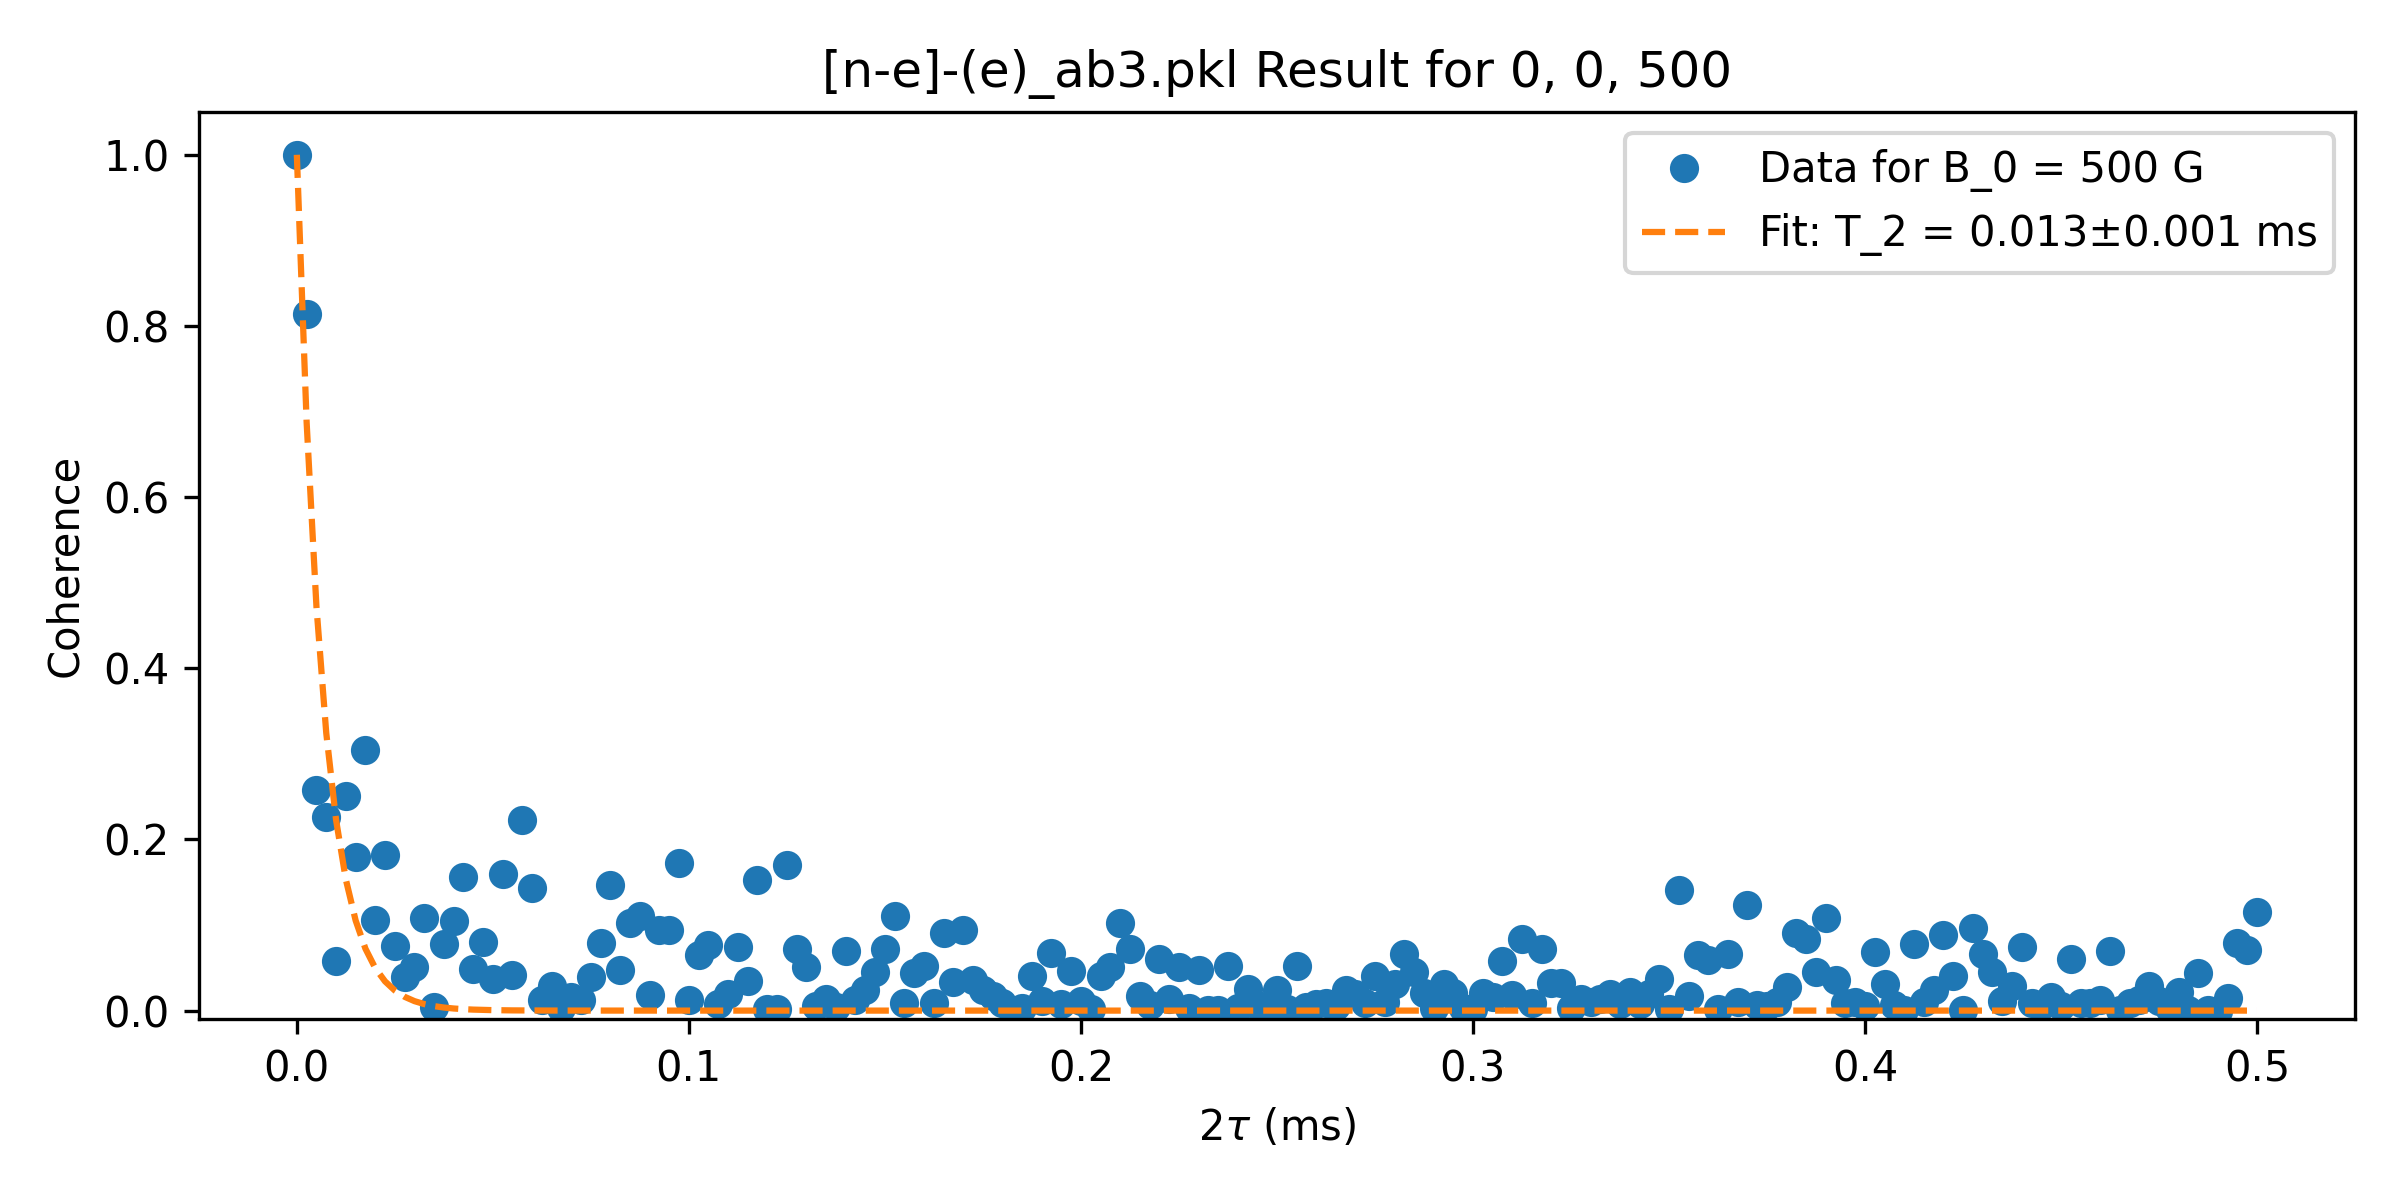
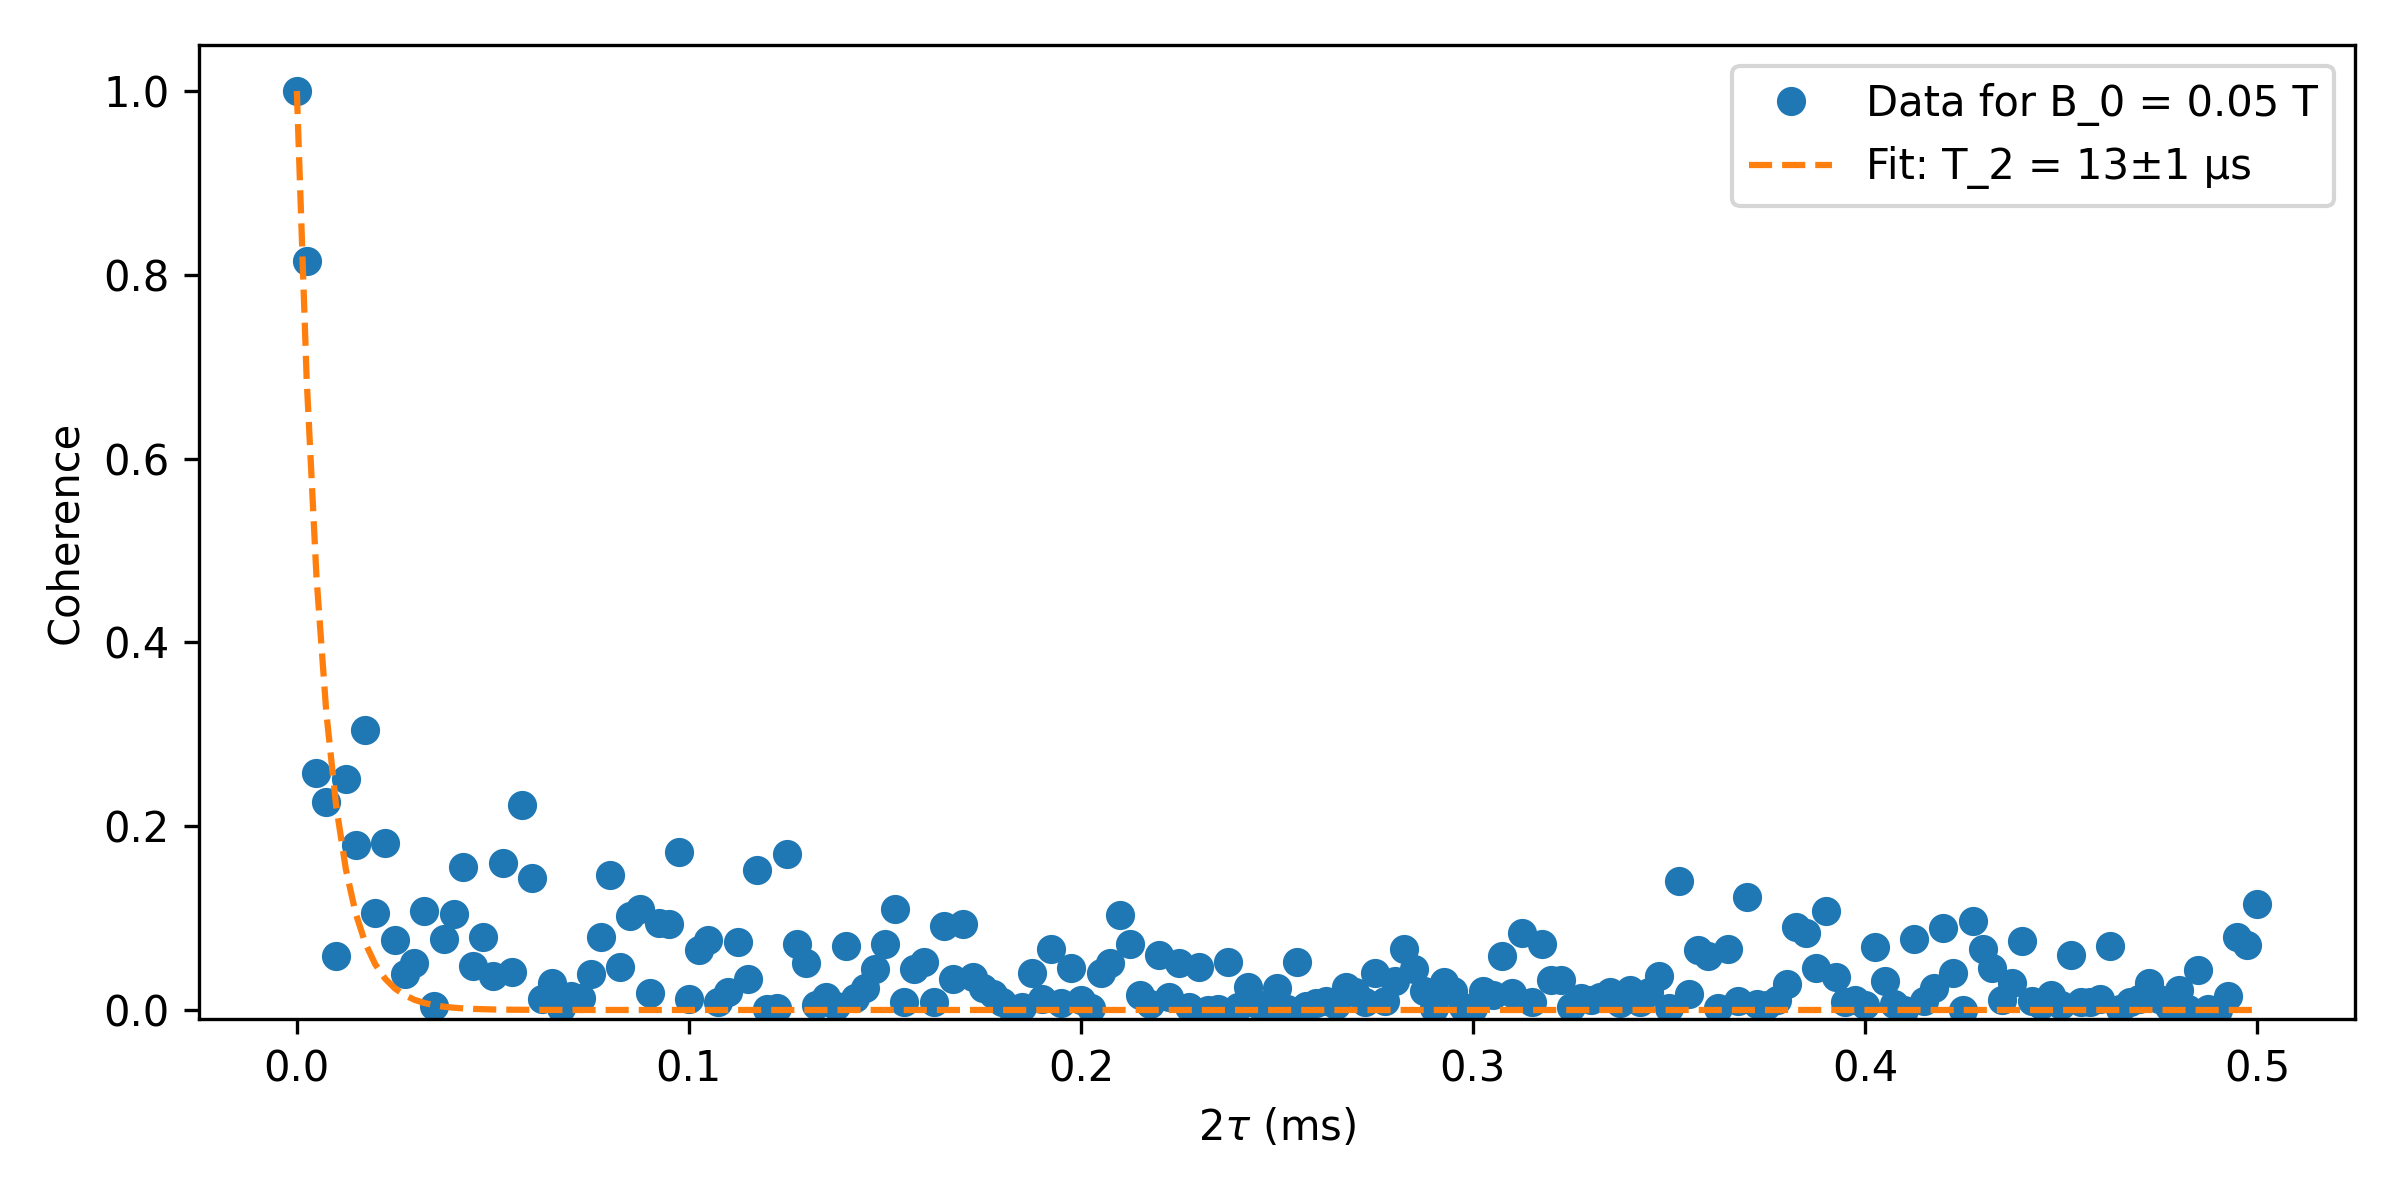
Minor adjustments for readability in paper

diff --git a/VOTPP folder/VOTPP_T2_vs_magnetic_field_COMBINED.py b/VOTPP folder/VOTPP_T2_vs_magnetic_field_COMBINED.py
@@ -280,23 +280,23 @@ def plot_all_T2_product_rules_combined(file_label_dict, marker_color_dict, data_
         # # Plotting without lines
         color, marker = marker_color_dict[AB]
         x_values = [i*1e-4 for i in x_values]
-        plt.errorbar(x_values, T2_product_values, yerr=T2_product_errors, fmt=marker, color=color, ecolor='black', elinewidth=0.5, capsize=2, label=f'{AB}')
+        # plt.errorbar(x_values, T2_product_values, yerr=T2_product_errors, fmt=marker, color=color, ecolor='black', elinewidth=0.5, capsize=2, label=f'{AB}')
         
-        # # Plotting with connected points
-        # color, marker = marker_color_dict[AB]
-        # # Plot lines separately with black color
-        # plt.plot(x_values, T2_product_values, color='black', linewidth=0.5, alpha=0.5, linestyle='-')
-        # # Plot markers separately with the specified color
-        # plt.errorbar(x_values, T2_product_values, yerr=T2_product_errors, fmt=marker, color=color,
-        #             ecolor='black', elinewidth=0.5, capsize=2, label=f'{AB}')
+        # Plotting with connected points
+        color, marker = marker_color_dict[AB]
+        # Plot lines separately with black color
+        plt.plot(x_values, T2_product_values, color=color, linewidth=0.5, alpha=0.5, linestyle='-')
+        # Plot markers separately with the specified color
+        plt.errorbar(x_values, T2_product_values, yerr=T2_product_errors, fmt=marker, color=color,
+                    ecolor='black', elinewidth=0.5, capsize=2, label=f'{AB}')
 
     plt.xlabel(r"$B_0$ (T)")
     plt.ylabel(r"$T_2$ ($\mu$s)")
     # plt.grid(True)
     plt.legend()
     plt.tight_layout()
-    plt.ylim(bottom=0)
-    plt.ylim(0,70)
+    plt.ylim(bottom=-5)
+    # plt.ylim(-3,70)
     plt.xlim(0.04,0.32)
 
     # Save plot in the "Results/T2_vs_B" folder
@@ -313,34 +313,36 @@ def plot_all_T2_product_rules_combined(file_label_dict, marker_color_dict, data_
 AB_list = ['AB1', 'AB2', 'AB3', 'AB4', 'AB5', 'AB6', 'AB7']  # Add all your AB values here
 bath_list = ['E', 'C', 'H', 'N']  
 
-# For plotting combined T2 vs B on semilog scale, and Product Rule T2 vs B on normal scale for each AB
-for AB in AB_list:
-    e_filename = f'[n-e]-(e)_{AB}.pkl_fit_results.pkl'
-    C_filename = f'[n-e]-(n)_C_{AB}.pkl_fit_results.pkl'
-    h_filename = f'[n-e]-(n)_H_{AB}.pkl_fit_results.pkl'
-    N_filename = f'[n-e]-(n)_N_{AB}.pkl_fit_results.pkl'
-
-    # Call the function to plot individual datasets and combined T2 product rule on semilog scale
-    plot_T2_vs_field_combined(e_filename, C_filename, h_filename, N_filename, AB)
-
-    # Call the function to plot only the combined T2 product rule on a normal scale
-    plot_T2_product_rule_combined(e_filename, C_filename, h_filename, N_filename, AB)
 
 
-# For plotting individual bath T2 vs B (e.g E bath AB1; T2 vs B)
-for AB in AB_list:
-    # Loop through each AB and plot for each bath
-    e_filename = f'[n-e]-(e)_{AB}.pkl_fit_results.pkl'
-    plot_T2_vs_B_single(e_filename, 'E', AB)
+# # For plotting combined T2 vs B on semilog scale, and Product Rule T2 vs B on normal scale for each AB
+# for AB in AB_list:
+#     e_filename = f'[n-e]-(e)_{AB}.pkl_fit_results.pkl'
+#     C_filename = f'[n-e]-(n)_C_{AB}.pkl_fit_results.pkl'
+#     h_filename = f'[n-e]-(n)_H_{AB}.pkl_fit_results.pkl'
+#     N_filename = f'[n-e]-(n)_N_{AB}.pkl_fit_results.pkl'
 
-    C_filename = f'[n-e]-(n)_C_{AB}.pkl_fit_results.pkl'
-    plot_T2_vs_B_single(C_filename, 'C', AB)
+#     # Call the function to plot individual datasets and combined T2 product rule on semilog scale
+#     plot_T2_vs_field_combined(e_filename, C_filename, h_filename, N_filename, AB)
 
-    h_filename = f'[n-e]-(n)_H_{AB}.pkl_fit_results.pkl'
-    plot_T2_vs_B_single(h_filename, 'H', AB)
+#     # Call the function to plot only the combined T2 product rule on a normal scale
+#     plot_T2_product_rule_combined(e_filename, C_filename, h_filename, N_filename, AB)
 
-    N_filename = f'[n-e]-(n)_N_{AB}.pkl_fit_results.pkl'
-    plot_T2_vs_B_single(N_filename, 'N', AB)
+
+# # For plotting individual bath T2 vs B (e.g E bath AB1; T2 vs B)
+# for AB in AB_list:
+#     # Loop through each AB and plot for each bath
+#     e_filename = f'[n-e]-(e)_{AB}.pkl_fit_results.pkl'
+#     plot_T2_vs_B_single(e_filename, 'E', AB)
+
+#     C_filename = f'[n-e]-(n)_C_{AB}.pkl_fit_results.pkl'
+#     plot_T2_vs_B_single(C_filename, 'C', AB)
+
+#     h_filename = f'[n-e]-(n)_H_{AB}.pkl_fit_results.pkl'
+#     plot_T2_vs_B_single(h_filename, 'H', AB)
+
+#     N_filename = f'[n-e]-(n)_N_{AB}.pkl_fit_results.pkl'
+#     plot_T2_vs_B_single(N_filename, 'N', AB)
 
 
 
@@ -414,3 +416,90 @@ marker_color_dict = {
 
 
 plot_all_T2_product_rules_combined(file_label_dict, marker_color_dict)
+
+
+
+
+
+
+
+
+
+
+
+
+
+#################################
+# Function to plot T2 vs B for H, C, and N datasets on a semilog plot
+def plot_T2_vs_B_semilog(C_pickle_filename, h_pickle_filename, N_pickle_filename, AB, data_range=None, show=False):
+    path = "VOTPP folder/Results/Pickle files 2/Fits/"
+
+    # Load fit results for H, C, and N datasets
+    C_fit_results = load_fit_results(path, C_pickle_filename)
+    h_fit_results = load_fit_results(path, h_pickle_filename)
+    N_fit_results = load_fit_results(path, N_pickle_filename)
+
+    # Assuming the keys are consistent across all datasets
+    keys = C_fit_results.keys()
+
+    # Extract x_values from the keys
+    x_values = [key[3] for key in keys]
+
+    # Extract T2 values and errors for C, H, and N datasets
+    T2_values_C = [C_fit_results[key]['T2'] * 1e3 for key in keys]  # Convert from ms to microseconds
+    T2_values_h = [h_fit_results[key]['T2'] * 1e3 for key in keys]
+    T2_values_N = [N_fit_results[key]['T2'] * 1e3 for key in keys]
+
+    T2_errors_C = [C_fit_results[key]['T2_err'] * 1e3 for key in keys]
+    T2_errors_h = [h_fit_results[key]['T2_err'] * 1e3 for key in keys]
+    T2_errors_N = [N_fit_results[key]['T2_err'] * 1e3 for key in keys]
+
+    # Apply data range if provided
+    if data_range is not None:
+        start, end = data_range
+        x_values = x_values[start:end]
+        T2_values_C = T2_values_C[start:end]
+        T2_values_h = T2_values_h[start:end]
+        T2_values_N = T2_values_N[start:end]
+        T2_errors_C = T2_errors_C[start:end]
+        T2_errors_h = T2_errors_h[start:end]
+        T2_errors_N = T2_errors_N[start:end]
+
+    # Plotting with error bars on a semilog scale
+    plt.figure(figsize=(8, 4))
+    x_values = [i*1e-4 for i in x_values]
+    plt.errorbar(x_values, T2_values_C, yerr=T2_errors_C, fmt='-o', label='C Bath', ecolor='black', elinewidth=0.5, capsize=2)
+    plt.errorbar(x_values, T2_values_h, yerr=T2_errors_h, fmt='-o', label='H Bath', ecolor='black', elinewidth=0.5, capsize=2)
+    plt.errorbar(x_values, T2_values_N, yerr=T2_errors_N, fmt='-o', label='N Bath', ecolor='black', elinewidth=0.5, capsize=2)
+
+    plt.semilogy(x_values, T2_values_C, '-o', color='tab:blue')
+    plt.semilogy(x_values, T2_values_h, '-o', color='tab:orange')
+    plt.semilogy(x_values, T2_values_N, '-o', color='tab:green')
+
+    plt.xlabel(r"$B_0$ (T)")
+    plt.ylabel(r"$T_2$ ($\mu$s)")
+    plt.grid(True, which="both", ls="--")
+    # plt.ylim(bottom=1)
+    plt.legend()
+    plt.tight_layout()
+
+    # Save plot in the "Results/T2_vs_B" folder
+    save_path = "VOTPP folder/Results/T2_vs_B/"
+    output_filename = os.path.join(save_path, f"T2_vs_B_{AB}_without_e.png")
+    plt.savefig(output_filename, dpi=300)
+    if show:
+        plt.show()
+    else:
+        plt.close()
+    
+
+
+C_filename = f'[n-e]-(n)_C_AB3.pkl_fit_results.pkl'
+h_filename = f'[n-e]-(n)_H_AB3.pkl_fit_results.pkl'
+N_filename = f'[n-e]-(n)_N_AB3.pkl_fit_results.pkl'
+
+# Call the function to plot individual datasets and combined T2 product rule on semilog scale
+plot_T2_vs_B_semilog(C_filename, h_filename, N_filename, 'AB3')
+
+# Call the function to plot only the combined T2 product rule on a normal scale
+plot_T2_vs_B_semilog(C_filename, h_filename, N_filename, 'AB3')

diff --git a/VOTPP folder/VOTPP_results_and_fit_plotter.py b/VOTPP folder/VOTPP_results_and_fit_plotter.py
@@ -132,7 +132,8 @@ def plot_individual_with_fit(loaded_results, variable_name, image_path, data_ran
 
     for outer_key in loaded_results.keys():
         for v_key, df in loaded_results[outer_key].items():
-            plt.figure(figsize=(8, 4))
+            plt.figure(figsize=(8,4))
+            # plt.figure(figsize=(4, 3))
             ydata_series = pd.Series(df[0].iloc[data_range]).replace('--', np.nan).astype(float)
             valid_mask = ~ydata_series.isna() & np.isfinite(ydata_series)
             ydata_plot = ydata_series[valid_mask]
@@ -148,12 +149,14 @@ def plot_individual_with_fit(loaded_results, variable_name, image_path, data_ran
                 fit_key = (outer_key,) + v_key if isinstance(v_key, tuple) else (outer_key, v_key)
                 fit_results[fit_key] = {'beta': beta_fit, 'T2': T2_fit, 'beta_err': beta_err, 'T2_err': T2_err}
 
-                plt.plot(time_data, ydata_plot, 'o', label=f'Data for B_0 = {v_key[2]} G')
-                plt.plot(time_data, coherence_time_func(time_data, *params), '--', label=f'Fit: T_2 = {T2_fit:.3f}±{T2_err:.3f} ms')
+                # plt.plot(time_data, ydata_plot, 'o', label=f'Data for B_0 = {v_key[2]} G')
+                # plt.plot(time_data, coherence_time_func(time_data, *params), '--', label=f'Fit: T_2 = {T2_fit:.3f}±{T2_err:.3f} ms')
+                plt.plot(time_data, ydata_plot, 'o', label=f'Data for B_0 = {(v_key[2] * 1e-4):.2f} T')
+                plt.plot(time_data, coherence_time_func(time_data, *params), '--', label=f'Fit: T_2 = {(T2_fit*1e3):.0f}±{(T2_err*1e3):.0f} μs')
             except RuntimeError as e:
                 print(f"Fit for label {label_str} failed: {e}")
 
-            plt.title(f"{variable_name.capitalize()} Result for {label_str}")
+            # plt.title(f"{variable_name.capitalize()} Result for {label_str}")
             plt.xlabel(r'2$\tau$ (ms)')
             plt.ylabel('Coherence')
             plt.legend()
@@ -280,30 +283,34 @@ def plot_from_file_average(pickle_filenames, data_range=slice(None), ylim=None):
 # plot_from_file(['[n-e]-(e).pkl',],ylim=(-0.01,None))#, data_range=slice(0, 225), )
 # plot_from_file(['[n-e]-(n).pkl',])
 
-AB_list = ['AB1', 'AB2', 'AB3', 'AB4', 'AB5', 'AB6', 'AB7']
-for AB in AB_list:
-    plot_from_file([f'[n-e]-(e)_{AB}.pkl',], ylim=(-0.01,None))
-# plot_from_file(['[n-e]-(e)_AB1.pkl',])
-# plot_from_file(['[n-e]-(e)_AB2.pkl',])
-# plot_from_file(['[n-e]-(e)_AB3.pkl',])
-# plot_from_file(['[n-e]-(e)_AB4.pkl',])
-# plot_from_file(['[n-e]-(e)_AB5.pkl',])
-# plot_from_file(['[n-e]-(e)_AB6.pkl',])
-# plot_from_file(['[n-e]-(e)_AB7.pkl',])
+# AB_list = ['AB1', 'AB2', 'AB3', 'AB4', 'AB5', 'AB6', 'AB7']
+# for AB in AB_list:
+#     plot_from_file([f'[n-e]-(e)_{AB}.pkl',], ylim=(-0.01,None))
+# # plot_from_file(['[n-e]-(e)_AB1.pkl',])
+# # plot_from_file(['[n-e]-(e)_AB2.pkl',])
+# # plot_from_file(['[n-e]-(e)_AB3.pkl',])
+# # plot_from_file(['[n-e]-(e)_AB4.pkl',])
+# # plot_from_file(['[n-e]-(e)_AB5.pkl',])
+# # plot_from_file(['[n-e]-(e)_AB6.pkl',])
+# # plot_from_file(['[n-e]-(e)_AB7.pkl',])
 
-bath_type_list = ['C', 'N', 'H']
-AB_list = ['AB1', 'AB2', 'AB3', 'AB4', 'AB5', 'AB6', 'AB7']
-for bath_type in bath_type_list:
-    for AB in AB_list:
-        plot_from_file([f'[n-e]-(n)_{bath_type}_{AB}.pkl',], ylim=(-0.01,None))
-    # plot_from_file([f'[n-e]-(n)_{bath_type}_AB1.pkl',], ylim=(-0.01,None))
-    # plot_from_file([f'[n-e]-(n)_{bath_type}_AB2.pkl',], ylim=(-0.01,None))
-    # plot_from_file([f'[n-e]-(n)_{bath_type}_AB3.pkl',], ylim=(-0.01,None))
-    # plot_from_file([f'[n-e]-(n)_{bath_type}_AB4.pkl',], ylim=(-0.01,None))
-    # plot_from_file([f'[n-e]-(n)_{bath_type}_AB5.pkl',], ylim=(-0.01,None))
-    # plot_from_file([f'[n-e]-(n)_{bath_type}_AB6.pkl',], ylim=(-0.01,None))
-    # plot_from_file([f'[n-e]-(n)_{bath_type}_AB7.pkl',], ylim=(-0.01,None))
+# bath_type_list = ['C', 'N', 'H']
+# AB_list = ['AB1', 'AB2', 'AB3', 'AB4', 'AB5', 'AB6', 'AB7']
+# for bath_type in bath_type_list:
+#     for AB in AB_list:
+#         plot_from_file([f'[n-e]-(n)_{bath_type}_{AB}.pkl',], ylim=(-0.01,None))
+#     # plot_from_file([f'[n-e]-(n)_{bath_type}_AB1.pkl',], ylim=(-0.01,None))
+#     # plot_from_file([f'[n-e]-(n)_{bath_type}_AB2.pkl',], ylim=(-0.01,None))
+#     # plot_from_file([f'[n-e]-(n)_{bath_type}_AB3.pkl',], ylim=(-0.01,None))
+#     # plot_from_file([f'[n-e]-(n)_{bath_type}_AB4.pkl',], ylim=(-0.01,None))
+#     # plot_from_file([f'[n-e]-(n)_{bath_type}_AB5.pkl',], ylim=(-0.01,None))
+#     # plot_from_file([f'[n-e]-(n)_{bath_type}_AB6.pkl',], ylim=(-0.01,None))
+#     # plot_from_file([f'[n-e]-(n)_{bath_type}_AB7.pkl',], ylim=(-0.01,None))
 
+# plot_from_file(['[n-e]-(n)_C_AB3.pkl',], ylim=(-0.01,None))
+# plot_from_file(['[n-e]-(n)_N_AB3.pkl',], ylim=(-0.01,None))
+# plot_from_file(['[n-e]-(n)_H_AB3.pkl',], ylim=(-0.01,None))
+plot_from_file(['[n-e]-(e)_AB3.pkl',], ylim=(-0.01,None),)
 
 ##############################################################################################################
 # H bath convergence
